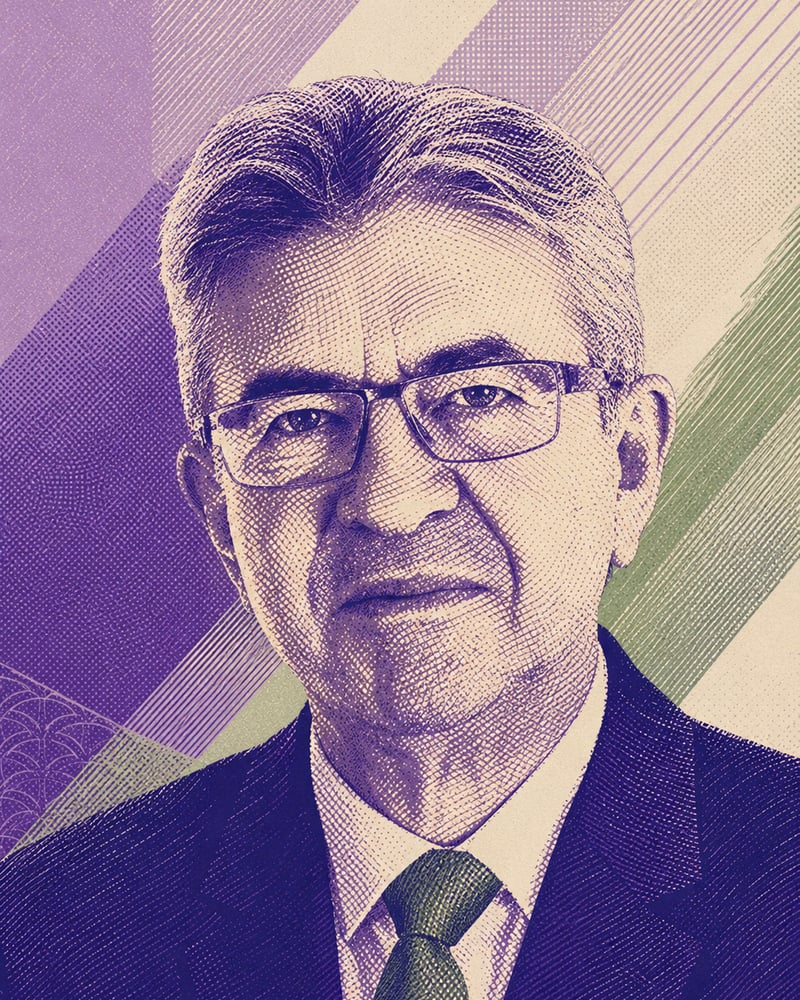
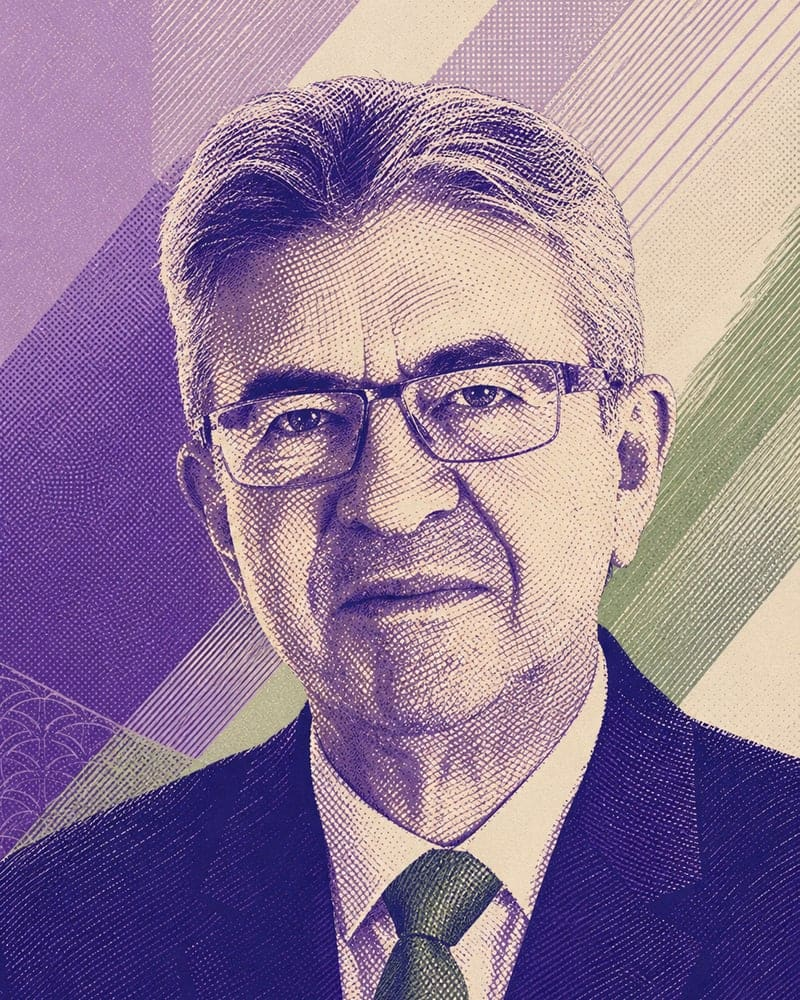
perf(cdn): cache ISR des pages publiques, prefetch réduit, images allégées
Réduit le nombre de requêtes CDN par visite (facture Vercel) et accélère le site.

- Prefetch désactivé (prefetch={false}) sur les liens des listes et des
  filtres : pastilles et tri de /declarations, cartes de fiches, liens
  ?candidat= et ?theme= (accueil, /candidats). Menu et pied de page inchangés.
- ISR 300 s à la place de force-dynamic : accueil, /candidats, /themes,
  /prix-perlimpinpin ; /declarations/[id], /candidats/[id] et /themes/[slug]
  avec generateStaticParams() -> [] (générées à la première visite, le build
  ne lit pas Neon pour elles). /declarations reste dynamique.
- Cache-Control d'un jour (+ stale-while-revalidate 7 j) pour /photos,
  /logo, /bannière et avatar-placeholder.svg (jamais /relectures).
- Logo redimensionné (107 Ko -> 5 Ko), photos recompressées (-28 %, mêmes
  dimensions) et vignettes WebP 128x160 pour les listes (2,2 Mo -> 41 Ko
  sur /declarations), générées par `npm run vignettes`.

diff --git a/src/app/declarations/page.js b/src/app/declarations/page.js
@@ -4,6 +4,7 @@ import FilterPillGroup from "@/components/FilterPillGroup";
 import MonoTag from "@/components/MonoTag";
 import { getPublishedDeclarations } from "@/lib/queries";
 import { getScoreBadge } from "@/lib/score";
+import { vignettePhoto } from "@/lib/photo-vignette";
 
 export const dynamic = "force-dynamic";
 
@@ -107,6 +108,7 @@ export default async function DeclarationsPage({ searchParams }) {
                   <Link
                     key={option.value}
                     href={buildSortHref(currentParams, option.value)}
+                    prefetch={false}
                     className={`rounded-full px-3 py-1 text-sm font-semibold transition-colors ${
                       sort === option.value
                         ? "bg-zinc-900 text-white"
@@ -134,12 +136,13 @@ export default async function DeclarationsPage({ searchParams }) {
                   <Link
                     key={d.id}
                     href={`/declarations/${d.id}`}
+                    prefetch={false}
                     className="flex flex-col gap-3 rounded-2xl border border-zinc-200 bg-white p-6 transition-colors hover:border-zinc-300 hover:bg-zinc-50"
                   >
                     <div className="flex items-start justify-between gap-3">
                       <div className="flex items-center gap-3">
                         <img
-                          src={d.candidatPhotoUrl || "/avatar-placeholder.svg"}
+                          src={vignettePhoto(d.candidatPhotoUrl) || "/avatar-placeholder.svg"}
                           alt={d.candidatNom}
                           className="h-9 w-9 shrink-0 rounded-lg object-cover object-top"
                         />

diff --git a/scripts/vignettes-photos.js b/scripts/vignettes-photos.js
@@ -1,0 +1,39 @@
+// Génère les vignettes des photos de candidats : public/photos/x.jpg →
+// public/photos/vignettes/x.webp (128×160, même cadrage 4:5 que l'original).
+// Les listes affichent les photos en 36 à 64 px : inutile d'y charger
+// l'original 800×1000 (~200 Ko) quand une vignette de quelques Ko suffit.
+//
+// Écrit aussi src/lib/photo-vignettes.json (liste des vignettes disponibles) :
+// src/lib/photo-vignette.js ne pointe vers une vignette que si elle y figure,
+// sinon il garde la grande photo (nouveau candidat sans vignette = rien de cassé).
+//
+// À relancer après l'ajout ou le remplacement d'une photo :
+//   npm run vignettes
+import { readdirSync, mkdirSync, writeFileSync } from "node:fs";
+import { join, parse } from "node:path";
+import sharp from "sharp";
+
+const PHOTOS_DIR = "public/photos";
+const VIGNETTES_DIR = join(PHOTOS_DIR, "vignettes");
+const MANIFEST = "src/lib/photo-vignettes.json";
+
+mkdirSync(VIGNETTES_DIR, { recursive: true });
+
+const noms = [];
+for (const fichier of readdirSync(PHOTOS_DIR).sort()) {
+  const { name, ext } = parse(fichier);
+  if (![".jpg", ".jpeg", ".png", ".webp"].includes(ext.toLowerCase())) continue;
+
+  const cible = join(VIGNETTES_DIR, `${name}.webp`);
+  // position "top" : les <img> des listes sont en object-top, on garde le visage.
+  await sharp(join(PHOTOS_DIR, fichier))
+    .rotate()
+    .resize(128, 160, { fit: "cover", position: "top" })
+    .webp({ quality: 80 })
+    .toFile(cible);
+  noms.push(fichier);
+  console.log(`${fichier} → ${cible}`);
+}
+
+writeFileSync(MANIFEST, `${JSON.stringify(noms, null, 2)}\n`);
+console.log(`${noms.length} vignettes, liste écrite dans ${MANIFEST}`);

diff --git a/src/app/declarations/[id]/page.js b/src/app/declarations/[id]/page.js
@@ -13,8 +13,18 @@ import EditableBlock from "@/app/test/EditableBlock";
 import { champCritere, texteEditable } from "@/lib/test-edition";
 import { getDeclarationDetail } from "@/lib/queries";
 import { getScoreBadge, PLAFOND_DECLENCHEUR_LABELS } from "@/lib/score";
+import { vignettePhoto } from "@/lib/photo-vignette";
 
-export const dynamic = "force-dynamic";
+// ISR : chaque fiche est calculée à sa première visite, puis servie depuis le
+// cache du CDN et recalculée au plus toutes les 5 minutes (nouvelle analyse,
+// compteurs de votes). generateStaticParams renvoie [] : le build ne lit pas
+// Neon, et dynamicParams = true laisse générer n'importe quel id à la demande.
+export const revalidate = 300;
+export const dynamicParams = true;
+
+export async function generateStaticParams() {
+  return [];
+}
 
 // Mémoïsé par requête (React cache) plutôt qu'appelé deux fois : generateMetadata
 // et la page elle-même ont besoin de la même fiche, et getDeclarationDetail fait
@@ -1014,7 +1024,7 @@ export default async function DeclarationDetailPage({ params, preview = false, e
 
               <div className="mt-6 flex items-center gap-3">
                 <img
-                  src={declaration.candidat.photoUrl || "/avatar-placeholder.svg"}
+                  src={vignettePhoto(declaration.candidat.photoUrl) || "/avatar-placeholder.svg"}
                   alt={declaration.candidat.nom}
                   className="h-11 w-11 shrink-0 rounded-lg object-cover object-top"
                 />

diff --git a/src/app/themes/[slug]/page.js b/src/app/themes/[slug]/page.js
@@ -4,8 +4,18 @@ import Header from "@/components/Header";
 import { getPublishedPropositionsByThemeSlug } from "@/lib/queries";
 import { getThemeBySlug } from "@/lib/themes";
 import { getScoreBadge } from "@/lib/score";
+import { vignettePhoto } from "@/lib/photo-vignette";
 
-export const dynamic = "force-dynamic";
+// ISR : chaque page est calculée à sa première visite, puis servie depuis le
+// cache du CDN et recalculée au plus toutes les 5 minutes. generateStaticParams
+// renvoie [] : le build ne lit pas Neon, et dynamicParams = true laisse
+// générer n'importe quelle adresse à la demande.
+export const revalidate = 300;
+export const dynamicParams = true;
+
+export async function generateStaticParams() {
+  return [];
+}
 
 export async function generateMetadata({ params }) {
   const { slug } = await params;
@@ -60,7 +70,7 @@ export default async function ThemeDetailPage({ params }) {
                     className="flex flex-col gap-4 rounded-2xl border border-zinc-200 bg-white p-6 transition-colors hover:border-zinc-300 hover:bg-zinc-50 sm:flex-row sm:items-center"
                   >
                     <img
-                      src={proposition.candidatPhotoUrl || "/avatar-placeholder.svg"}
+                      src={vignettePhoto(proposition.candidatPhotoUrl) || "/avatar-placeholder.svg"}
                       alt={proposition.candidatNom}
                       className="h-11 w-11 shrink-0 rounded-lg object-cover object-top"
                     />

diff --git a/src/app/prix-perlimpinpin/page.js b/src/app/prix-perlimpinpin/page.js
@@ -4,8 +4,10 @@ import MonoTag from "@/components/MonoTag";
 import ArrowIcon from "@/components/ArrowIcon";
 import { getScoreExtremes, getVoteMesureLeaderboard } from "@/lib/queries";
 import { getScoreBadge } from "@/lib/score";
+import { vignettePhoto } from "@/lib/photo-vignette";
 
-export const dynamic = "force-dynamic";
+// ISR : servie depuis le cache du CDN, recalculée au plus toutes les 5 minutes.
+export const revalidate = 300;
 
 const ICON_FLAG = (
   <path
@@ -60,7 +62,7 @@ function ExtremeCardContent({ card, border }) {
     <div className={`mt-3 rounded-2xl border border-l-4 border-zinc-200 bg-white p-6 ${border}`}>
       <div className="flex items-center gap-3">
         <img
-          src={card.candidatPhotoUrl || "/avatar-placeholder.svg"}
+          src={vignettePhoto(card.candidatPhotoUrl) || "/avatar-placeholder.svg"}
           alt={card.candidatNom}
           className="h-10 w-10 shrink-0 rounded-lg object-cover object-top"
         />
@@ -115,7 +117,7 @@ function VoteColumn({ title, cards, countLabel, pctLabel, direction }) {
                 {String(index + 1).padStart(2, "0")}
               </span>
               <img
-                src={card.candidatPhotoUrl || "/avatar-placeholder.svg"}
+                src={vignettePhoto(card.candidatPhotoUrl) || "/avatar-placeholder.svg"}
                 alt={card.candidatNom}
                 className="h-9 w-9 shrink-0 rounded-lg object-cover object-top"
               />

diff --git a/src/components/BottomColumns.js b/src/components/BottomColumns.js
@@ -1,5 +1,6 @@
 import Link from "next/link";
 import { formatScore, getScoreBadge, getScoreBands } from "@/lib/score";
+import { vignettePhoto } from "@/lib/photo-vignette";
 
 function ColumnHeader({ title, subtitle, linkLabel, linkHref, icon }) {
   return (
@@ -49,7 +50,7 @@ function TopDeclarationsColumn({ declarations }) {
                   className="-m-2 flex items-start gap-3 rounded-xl p-2 transition-colors hover:bg-zinc-50"
                 >
                   <img
-                    src={item.photoUrl || "/avatar-placeholder.svg"}
+                    src={vignettePhoto(item.photoUrl) || "/avatar-placeholder.svg"}
                     alt={item.name}
                     className="h-9 w-9 shrink-0 rounded-lg object-cover object-top"
                   />
@@ -179,10 +180,11 @@ function ReliabilityIndexColumn({ candidates }) {
               </span>
               <Link
                 href={`/declarations?candidat=${encodeURIComponent(candidate.name)}`}
+                prefetch={false}
                 className="flex min-w-0 flex-1 items-center gap-3 transition-opacity hover:opacity-70"
               >
                 <img
-                  src={candidate.photoUrl || "/avatar-placeholder.svg"}
+                  src={vignettePhoto(candidate.photoUrl) || "/avatar-placeholder.svg"}
                   alt={candidate.name}
                   className="h-9 w-9 shrink-0 rounded-lg object-cover object-top"
                 />

diff --git a/src/app/candidats/page.js b/src/app/candidats/page.js
@@ -3,8 +3,10 @@ import Header from "@/components/Header";
 import MonoTag from "@/components/MonoTag";
 import { getAllCandidats } from "@/lib/queries";
 import { formatScore, getScoreBadge } from "@/lib/score";
+import { vignettePhoto } from "@/lib/photo-vignette";
 
-export const dynamic = "force-dynamic";
+// ISR : servie depuis le cache du CDN, recalculée au plus toutes les 5 minutes.
+export const revalidate = 300;
 
 export const metadata = {
   title: "Les candidats | Perlimpinpin",
@@ -51,11 +53,12 @@ export default async function CandidatsPage() {
                 <Link
                   key={candidat.id}
                   href={`/declarations?candidat=${encodeURIComponent(candidat.nom)}`}
+                  prefetch={false}
                   className="flex flex-col gap-4 border-b border-zinc-200 pb-6 transition-opacity hover:opacity-70"
                 >
                   <div className="flex items-center gap-3">
                     <img
-                      src={candidat.photoUrl || "/avatar-placeholder.svg"}
+                      src={vignettePhoto(candidat.photoUrl) || "/avatar-placeholder.svg"}
                       alt={candidat.nom}
                       className="h-16 w-16 shrink-0 rounded-xl object-cover object-top"
                     />

diff --git a/scripts/photo-vignette.test.js b/scripts/photo-vignette.test.js
@@ -1,0 +1,26 @@
+import { test } from "node:test";
+import assert from "node:assert/strict";
+import { vignettePhoto } from "../src/lib/photo-vignette.js";
+
+const DISPONIBLES = ["marine-le-pen.jpg"];
+
+test("photo avec vignette : adresse de la vignette webp", () => {
+  assert.equal(
+    vignettePhoto("/photos/marine-le-pen.jpg", DISPONIBLES),
+    "/photos/vignettes/marine-le-pen.webp",
+  );
+});
+
+test("photo sans vignette (nouveau candidat) : adresse d'origine", () => {
+  assert.equal(vignettePhoto("/photos/nouveau.jpg", DISPONIBLES), "/photos/nouveau.jpg");
+});
+
+test("placeholder, adresse externe, vide : inchangés", () => {
+  assert.equal(vignettePhoto("/avatar-placeholder.svg", DISPONIBLES), "/avatar-placeholder.svg");
+  assert.equal(
+    vignettePhoto("https://exemple.fr/photos/marine-le-pen.jpg", DISPONIBLES),
+    "https://exemple.fr/photos/marine-le-pen.jpg",
+  );
+  assert.equal(vignettePhoto(null, DISPONIBLES), null);
+  assert.equal(vignettePhoto(undefined, DISPONIBLES), undefined);
+});

diff --git a/src/lib/photo-vignette.js b/src/lib/photo-vignette.js
@@ -1,0 +1,13 @@
+import VIGNETTES from "./photo-vignettes.json" with { type: "json" };
+
+// Vignette 128×160 d'une photo de candidat, pour les listes (photos affichées
+// en 36 à 64 px). Générée par scripts/vignettes-photos.js (npm run vignettes).
+// Seules les photos de public/photos/ listées dans photo-vignettes.json ont une
+// vignette : pour toute autre adresse (photo externe, nouveau candidat pas
+// encore traité, placeholder), on renvoie l'adresse d'origine telle quelle.
+// Ne pas utiliser pour les grands formats (carrousel, page candidat).
+export function vignettePhoto(url, disponibles = VIGNETTES) {
+  const match = typeof url === "string" ? url.match(/^\/photos\/([^/]+)\.[a-z]+$/i) : null;
+  if (!match || !disponibles.includes(url.slice("/photos/".length))) return url;
+  return `/photos/vignettes/${match[1]}.webp`;
+}

diff --git a/src/app/candidats/[id]/page.js b/src/app/candidats/[id]/page.js
@@ -4,7 +4,16 @@ import Header from "@/components/Header";
 import { getCandidatDetail } from "@/lib/queries";
 import { formatScore, getScoreBadge } from "@/lib/score";
 
-export const dynamic = "force-dynamic";
+// ISR : chaque page est calculée à sa première visite, puis servie depuis le
+// cache du CDN et recalculée au plus toutes les 5 minutes. generateStaticParams
+// renvoie [] : le build ne lit pas Neon, et dynamicParams = true laisse
+// générer n'importe quelle adresse à la demande.
+export const revalidate = 300;
+export const dynamicParams = true;
+
+export async function generateStaticParams() {
+  return [];
+}
 
 // Blocs de contenu éditorial de la fiche candidat. Chaque entrée est vide
 // pour le moment (contenu à rédiger) — il suffit de remplir `contenu` pour

diff --git a/src/app/page.js b/src/app/page.js
@@ -11,9 +11,10 @@ import {
   getCandidateRanking,
 } from "@/lib/queries";
 
-// La page dépend de données Neon qui changent (analyses publiées, scores) —
-// rendu dynamique à chaque requête plutôt que figé au build.
-export const dynamic = "force-dynamic";
+// La page dépend de données Neon qui changent (analyses publiées, scores) :
+// ISR, recalculée au plus toutes les 5 minutes et servie depuis le cache du
+// CDN entre-temps (rendu reproductible, voir getFeaturedRotation).
+export const revalidate = 300;
 
 export default async function Home() {
   const [featuredRotation, topDeclarations, rankedCandidates] =

diff --git a/src/components/FilterPillGroup.js b/src/components/FilterPillGroup.js
@@ -47,6 +47,7 @@ export default function FilterPillGroup({
       <div className="flex flex-wrap items-center gap-2">
         <Link
           href={buildHref(currentParams, paramKey, null)}
+          prefetch={false}
           className={pillClass(!activeValue)}
         >
           Tous
@@ -59,6 +60,7 @@ export default function FilterPillGroup({
               paramKey,
               activeValue === option.value ? null : option.value,
             )}
+            prefetch={false}
             className={pillClass(activeValue === option.value)}
           >
             {option.label}
